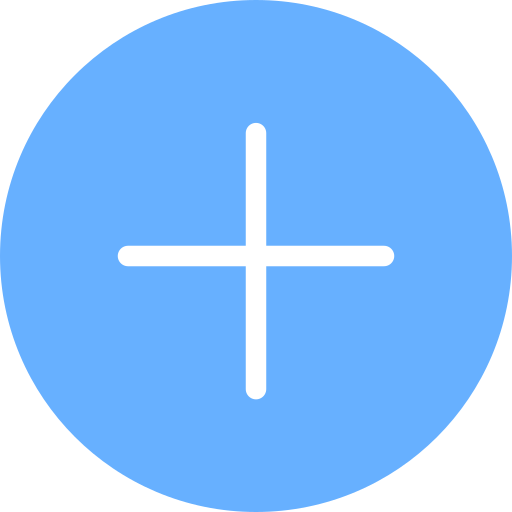
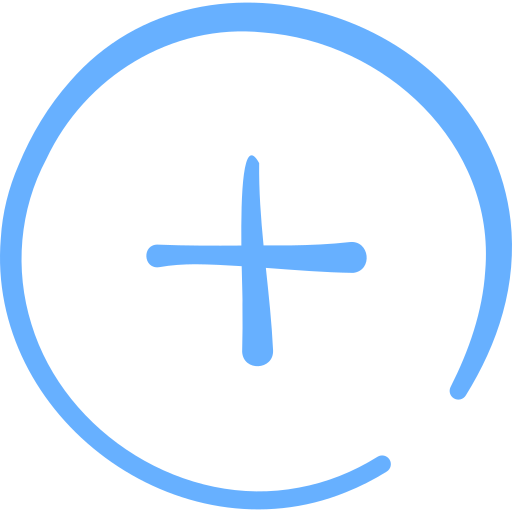
added flaticon

diff --git a/src/App.scss b/src/App.scss
@@ -79,6 +79,7 @@ h2 {
          height: 50px;
          background: #f5f7ff;
          border-radius: 15px;
+         caret-color: #67b0ff;
          &:focus-visible {
             outline: -webkit-focus-ring-color auto 0px;
             border: 1px solid #67b0ff;
@@ -118,6 +119,7 @@ h2 {
          }
          .time {
             color: #999;
+            font-size: 14px;
             img {
                width: 32px;
                float: left;
@@ -159,9 +161,8 @@ h2 {
       right: 30px;
       border-radius: 100px;
       background: #67b0ff;
-      padding: 10px;
       img {
-         width: 32px;
+         width: 64px;
       }
    }
 }
@@ -205,26 +206,59 @@ h2 {
    .input-group {
       position: relative;
       margin-top: 30px;
+      margin-bottom: 30px;
       .input-icon {
          width: 32px;
          position: absolute;
          top: 9px;
          left: 9px;
       }
+      label {
+         color: #999;
+      }
       input {
          width: 100%;
-         padding-left: 50px;
-         height: 50px;
-         background: #f5f7ff;
-         border-radius: 15px;
+         height: 100px;
+         border-bottom: 1px solid #e5e5e5;
+         caret-color: #67b0ff;
+         padding: 15px 0 59px 0;
+         transition: 0.4s;
          &:focus-visible {
             outline: -webkit-focus-ring-color auto 0px;
-            border: 1px solid #67b0ff;
-            padding-left: 49px;
+            border-bottom: 1px solid #67b0ff;
          }
          &::placeholder {
             color: #999;
+            transition: 0.4s;
          }
       }
+   }
+
+   .input-group2 {
+      position: relative;
+      margin-bottom: 15px;
+      .input-icon {
+         width: 32px;
+         position: absolute;
+         top: 9px;
+         left: 0px;
+      }
+      input {
+         width: 100%;
+         padding-left: 47px;
+         height: 50px;
+         // background: #f5f7ff;
+         // border-radius: 15px;
+         caret-color: #67b0ff;
+         &:focus-visible {
+            outline: -webkit-focus-ring-color auto 0px;
+         }
+      }
+   }
+   .submit-btn {
+      background: #67b0ff;
+      width: 100%;
+      height: 50px;
+      border-radius: 15px;
    }
 }

diff --git a/src/components/AddTodo.tsx b/src/components/AddTodo.tsx
@@ -1,7 +1,9 @@
 import { Link } from "react-router-dom";
-import left from "../images/left.png";
-import search from "../images/search2.png";
-import sun from "../images/sun.png";
+import left from "../images/left-arrow.png";
+import tag from "../images/tag.png";
+import bell from "../images/bell.png";
+import moon from "../images/crescent-moon.png";
+import pushpin from "../images/pushpin.png";
 
 const AddTodo = () => {
    return (
@@ -16,17 +18,26 @@ const AddTodo = () => {
                   </div>
                   <h2>Add ToDo</h2>
                   <div className="mode shadow-">
-                     <img src={sun} alt="" />
+                     <img src={moon} alt="" />
                   </div>
                </div>
                <div className="input-group">
-                  <img className="input-icon" src={search} alt="" />
-                  <input
-                     className="shadow-sm"
-                     type="text"
-                     placeholder="Search tasks..."
-                  />
+                  <label htmlFor="plan">What are your planning?</label>
+                  <input type="text" id="plan" />
                </div>
+               <div className="input-group2">
+                  <img className="input-icon" src={tag} alt="" />
+                  <input className="" type="text" placeholder="Category" />
+               </div>
+               <div className="input-group2">
+                  <img className="input-icon" src={bell} alt="" />
+                  <input className="" type="text" placeholder="May 29, 2022" />
+               </div>
+               <div className="input-group2">
+                  <img className="input-icon" src={pushpin} alt="" />
+                  <input className="" type="text" placeholder="Add note" />
+               </div>
+               <button className="submit-btn">Add Todo</button>
             </div>
          </div>
       </div>

diff --git a/src/components/TodoBox.tsx b/src/components/TodoBox.tsx
@@ -1,8 +1,8 @@
 import logo from "../images/reminder.png";
 import moon from "../images/moon.png";
-import sun from "../images/sun.png";
+import sun from "../images/sun2.png";
 import search from "../images/search.png";
-import plus from "../images/plus4.png";
+import plus from "../images/plus2.png";
 import time from "../images/time2.png";
 import check from "../images/check.png";
 import trash from "../images/trash.png";
